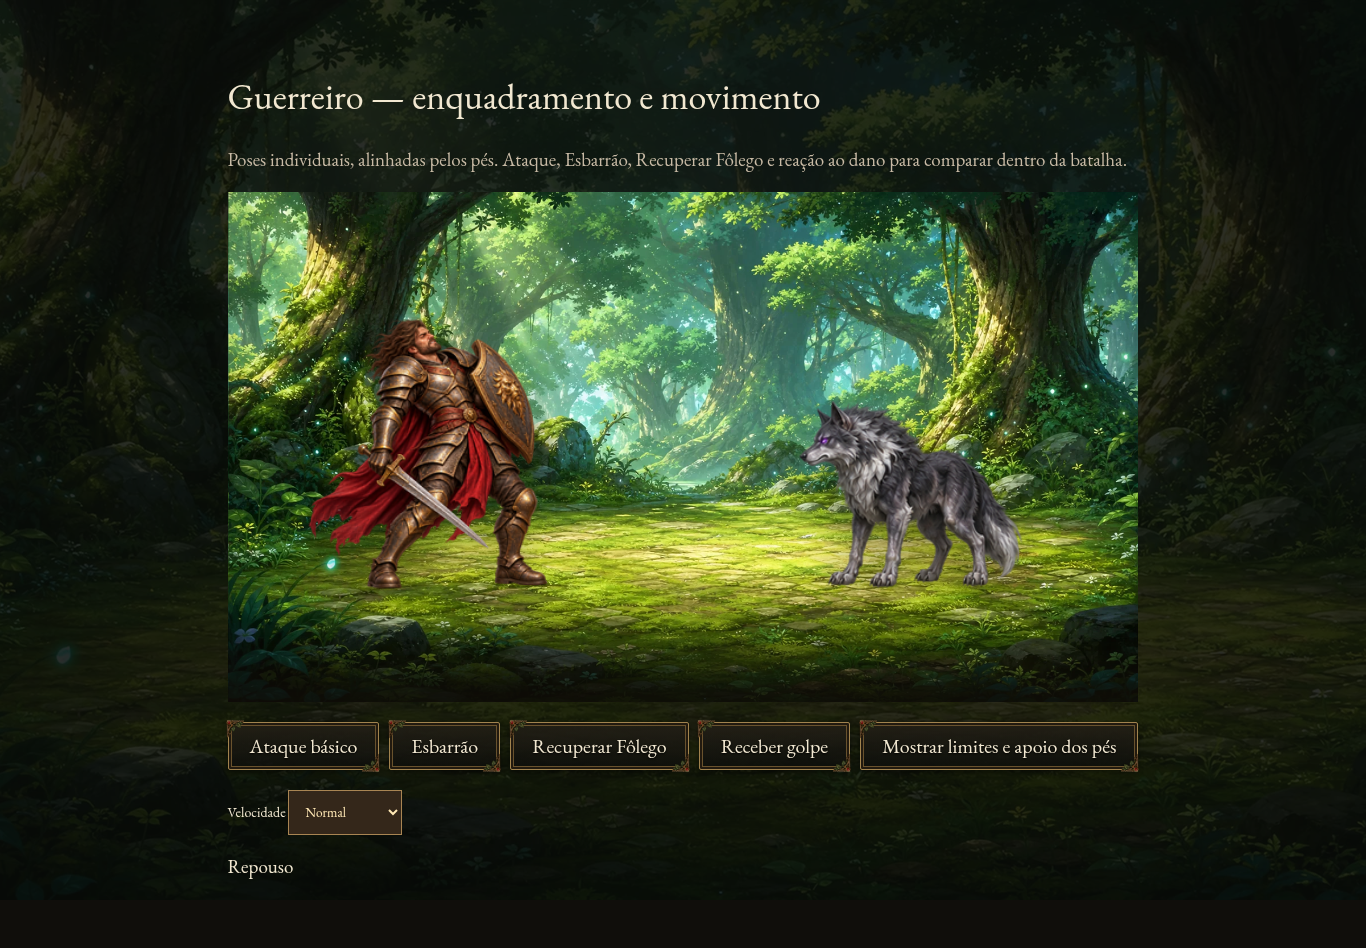
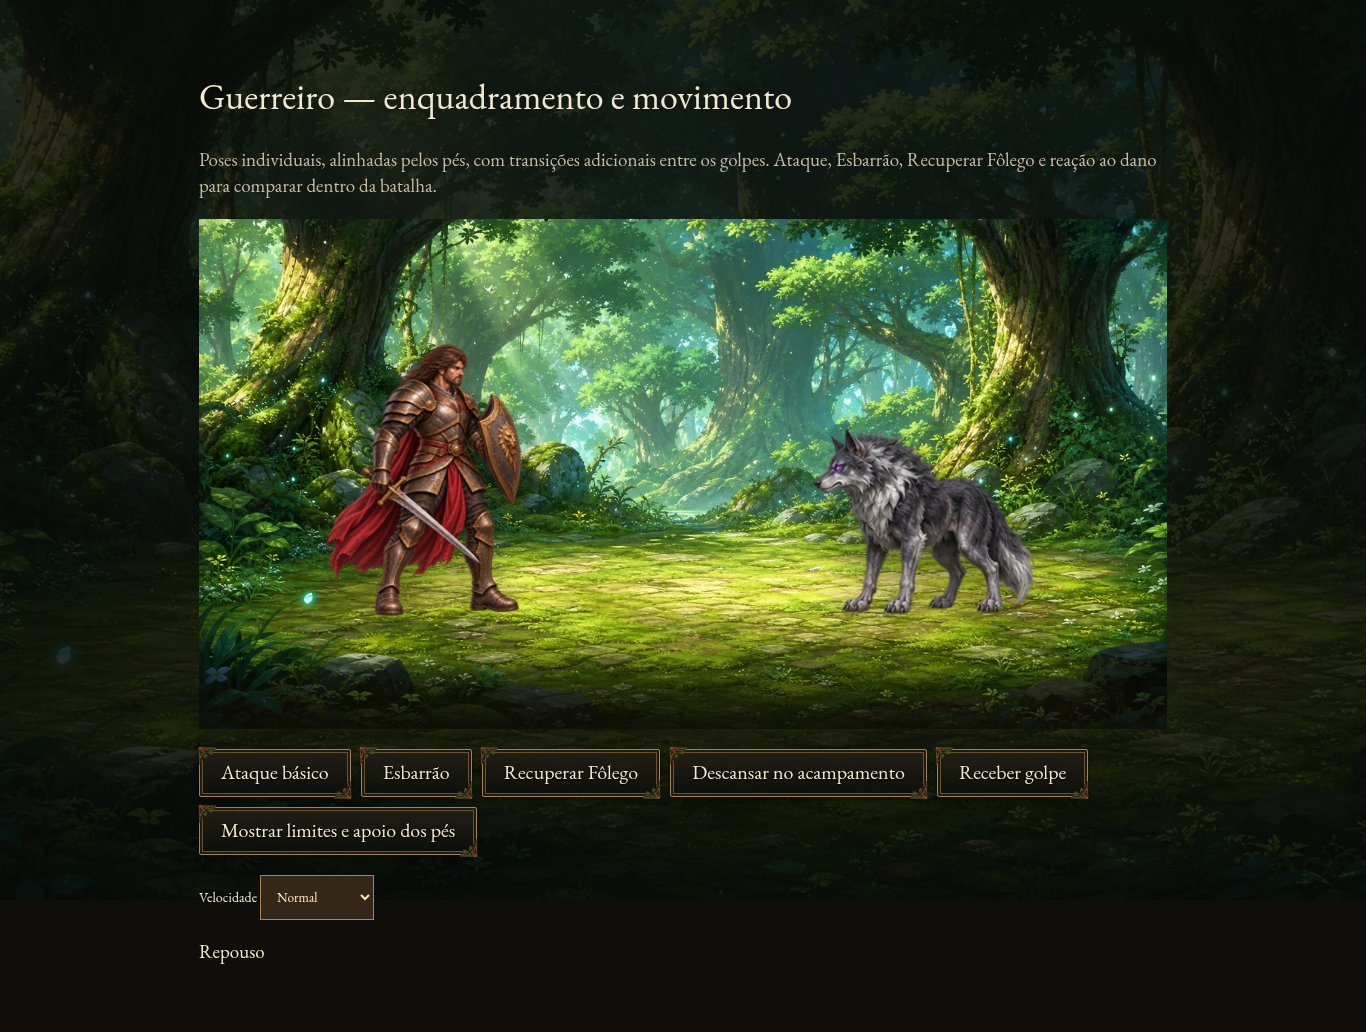
feat: add warrior camp rest pose and smoother combat transitions

diff --git a/docs/arte/guerreiro/index.html b/docs/arte/guerreiro/index.html
@@ -1,6 +1,6 @@
-<!doctype html><html lang="pt-BR"><head><meta charset="utf-8"><meta name="viewport" content="width=device-width,initial-scale=1"><base href="../../../"><title>Guerreiro — estudo de movimento</title><link rel="stylesheet" href="assets/styles/game.css"><link rel="stylesheet" href="assets/styles/campaign-hud.css"><link rel="stylesheet" href="assets/styles/campaign-theme.css"><link rel="stylesheet" href="assets/styles/character-motion.css"><style>body{background:#121014;color:#f1dfbb}main{max-width:1000px;margin:32px auto;padding:16px}h1{font-size:36px}.battle-scene{height:500px!important;background:url('assets/visual/backgrounds/regions/floresta.webp') center/cover}.controls{display:flex;gap:10px;flex-wrap:wrap;margin:20px 0}button,select{padding:12px;background:#34271a;color:#ffe8b5;border:1px solid #a98553}.debug .hero-v2{outline:1px solid #ffc75e}.debug .hero-v2:after{content:'';position:absolute;width:8px;height:8px;border:1px solid cyan;left:calc(50% - 4px);bottom:4px}.speed{font:14px system-ui}.note{color:#c8baa5}@media(max-width:760px){main{margin:10px auto}.battle-scene{height:360px!important}}</style></head><body class="rpg-campaign"><main><h1>Guerreiro — enquadramento e movimento</h1><p class="note">Poses individuais, alinhadas pelos pés. Ataque, Esbarrão, Recuperar Fôlego e reação ao dano para comparar dentro da batalha.</p><div class="rpg-battle"><div class="battle-scene"><div id="heroSpriteBox" class="combat-entity hero-entity"><div class="sprite-figure sheet-sprite hero-v2 warrior-single" data-warrior="true" role="img" aria-label="Guerreiro"></div></div><div id="enemySpriteBox" class="combat-entity enemy-entity"><div class="sprite-figure sheet-sprite" style="background-image:url('assets/visual/enemies-v3/lobo-sombrio.webp');background-size:400% 100%" role="img" aria-label="Lobo Sombrio"></div></div></div></div><div class="controls"><button data-action="basic">Ataque básico</button><button data-action="shove">Esbarrão</button><button data-action="support">Recuperar Fôlego</button><button data-action="hurt">Receber golpe</button><button id="bounds">Mostrar limites e apoio dos pés</button></div><label class="speed">Velocidade <select id="speed"><option value="1">Normal</option><option value="0.35">Câmera lenta</option></select></label><p id="status" role="status">Repouso</p></main><script>const player={class:'Guerreiro'};const slugify=s=>s.toLowerCase().replace(/\s+/g,'-');function pulseSpriteClass(){}</script><script src="assets/js/systems/character-motion.js"></script><script>
+<!doctype html><html lang="pt-BR"><head><meta charset="utf-8"><meta name="viewport" content="width=device-width,initial-scale=1"><base href="../../../"><title>Guerreiro — estudo de movimento</title><link rel="stylesheet" href="assets/styles/game.css"><link rel="stylesheet" href="assets/styles/campaign-hud.css"><link rel="stylesheet" href="assets/styles/campaign-theme.css"><link rel="stylesheet" href="assets/styles/character-motion.css"><style>body{background:#121014;color:#f1dfbb}main{max-width:1000px;margin:32px auto;padding:16px}h1{font-size:36px}.battle-scene{height:500px!important;background:url('assets/visual/backgrounds/regions/floresta.webp') center/cover}.controls{display:flex;gap:10px;flex-wrap:wrap;margin:20px 0}button,select{padding:12px;background:#34271a;color:#ffe8b5;border:1px solid #a98553}.debug .hero-v2{outline:1px solid #ffc75e}.debug .hero-v2:after{content:'';position:absolute;width:8px;height:8px;border:1px solid cyan;left:calc(50% - 4px);bottom:4px}.speed{font:14px system-ui}.note{color:#c8baa5}@media(max-width:760px){main{margin:10px auto}.battle-scene{height:360px!important}}</style></head><body class="rpg-campaign"><main><h1>Guerreiro — enquadramento e movimento</h1><p class="note">Poses individuais, alinhadas pelos pés, com transições adicionais entre os golpes. Ataque, Esbarrão, Recuperar Fôlego e reação ao dano para comparar dentro da batalha.</p><div class="rpg-battle"><div class="battle-scene"><div id="heroSpriteBox" class="combat-entity hero-entity"><div class="sprite-figure sheet-sprite hero-v2 warrior-single" data-warrior="true" role="img" aria-label="Guerreiro"></div></div><div id="enemySpriteBox" class="combat-entity enemy-entity"><div class="sprite-figure sheet-sprite" style="background-image:url('assets/visual/enemies-v3/lobo-sombrio.webp');background-size:400% 100%" role="img" aria-label="Lobo Sombrio"></div></div></div></div><div class="controls"><button data-action="basic">Ataque básico</button><button data-action="shove">Esbarrão</button><button data-action="support">Recuperar Fôlego</button><button data-action="camp">Descansar no acampamento</button><button data-action="hurt">Receber golpe</button><button id="bounds">Mostrar limites e apoio dos pés</button></div><label class="speed">Velocidade <select id="speed"><option value="1">Normal</option><option value="0.35">Câmera lenta</option></select></label><p id="status" role="status">Repouso</p></main><script>const player={class:'Guerreiro'};const slugify=s=>s.toLowerCase().replace(/\s+/g,'-');function pulseSpriteClass(){}</script><script src="assets/js/systems/character-motion.js"></script><script>
 const hero=document.querySelector('.hero-v2');hero.style.setProperty('--sprite-url',`url('${new URL(CharacterMotion.heroPath('guerreiro'),document.baseURI).href}')`);
 window.addEventListener('rpg-motion',e=>document.getElementById('status').textContent=e.detail.phase==='impact'?'Impacto':e.detail.phase==='end'?'Repouso':e.detail.phase);
-async function play(id){document.querySelectorAll('button').forEach(b=>b.disabled=true);try{if(id==='hurt')await CharacterMotion.hurt();else await CharacterMotion.action({style:id==='support'?'buff':'attack',skill:id==='shove'?{type:'warrior_shove',id:'esbarrao'}:id==='support'?{type:'warrior_second_wind',id:'recuperar_folego'}:null,connectHit:true});}finally{document.querySelectorAll('button').forEach(b=>b.disabled=false);}}
+async function play(id){document.querySelectorAll('button').forEach(b=>b.disabled=true);try{if(id==='camp'){hero.style.backgroundImage=`url('${new URL(CharacterMotion.heroPath('guerreiro-camp'),document.baseURI).href}')`;hero.dataset.pose='camp';document.getElementById('status').textContent='Descansando';}else if(id==='hurt')await CharacterMotion.hurt();else await CharacterMotion.action({style:id==='support'?'buff':'attack',skill:id==='shove'?{type:'warrior_shove',id:'esbarrao'}:id==='support'?{type:'warrior_second_wind',id:'recuperar_folego'}:null,connectHit:true});}finally{document.querySelectorAll('button').forEach(b=>b.disabled=false);}}
 document.querySelectorAll('[data-action]').forEach(b=>b.onclick=()=>play(b.dataset.action));document.getElementById('bounds').onclick=()=>document.body.classList.toggle('debug');document.getElementById('speed').onchange=e=>{document.timeline.getAnimations().forEach(a=>a.playbackRate=Number(e.target.value));window.warriorPreviewSpeed=Number(e.target.value);};
 </script></body></html>

diff --git a/assets/js/systems/character-motion.js b/assets/js/systems/character-motion.js
@@ -10,12 +10,12 @@ const CharacterMotion=(()=>{
   if(key==='avatar-da-natureza'&&playerEffects.natureTrueFormTurns>0)return 'avatar-da-natureza-verdadeira';
   return key;
  }
- const heroPath=key=>key==='guerreiro'?posePath('idle'):`assets/visual/${forms.has(key)?'hero-forms':'heroes-v2'}/${key}.webp?v=20261104-forms`;
- const posePath=name=>`assets/visual/warrior-poses/${name}.webp?v=20261109-pilot`;
+ const heroPath=key=>key==='guerreiro-camp'?posePath('camp'):key==='guerreiro'?posePath('idle'):`assets/visual/${forms.has(key)?'hero-forms':'heroes-v2'}/${key}.webp?v=20261104-forms`;
+ const posePath=name=>`assets/visual/warrior-poses/${name}.webp?v=20261109-fluid-r2`;
  const warrior=el=>el?.dataset.warrior==='true'||(typeof getHeroCombatAssetKey==='function'&&getHeroCombatAssetKey()==='guerreiro');
  function setPose(el,name){if(!name)throw new Error('Missing warrior pose '+el.dataset.motion+' '+el.dataset.frame);el.classList.add('warrior-single');el.dataset.pose=name;el.style.backgroundImage=`url('${new URL(posePath(name),document.baseURI).href}')`;}
  function resetPose(el){if(warrior(el))setPose(el,'idle');el.dataset.motion='idle';el.dataset.frame='0';el.style.removeProperty('background-position');}
- function readyPoses(){if(!loaded.has('warrior-poses'))loaded.set('warrior-poses',Promise.all(['idle','windup','strike','recover','shove','support','hurt'].map(name=>{const im=new Image();im.src=posePath(name);return im.decode().catch(()=>false);})));return loaded.get('warrior-poses');}
+ function readyPoses(){if(!loaded.has('warrior-poses'))loaded.set('warrior-poses',Promise.all(['idle','windup','strike','recover','shove','support','hurt','ready','swing','follow','settle','shove-ready','shove-return','hurt-mid','camp'].map(name=>{const im=new Image();im.src=posePath(name);return im.decode().catch(()=>false);})));return loaded.get('warrior-poses');}
  function syncForm(){
   const el=document.querySelector('#heroSpriteBox .hero-v2');
   if(el&&warrior(el))setPose(el,'idle');
@@ -34,7 +34,7 @@ const CharacterMotion=(()=>{
   if(reduced()){resetPose(el);return pause(100);}
   return new Promise(resolve=>{const start=performance.now();const token={raf:0,finish};running.set(el,token);el.dataset.motion=row===3?'hurt':row===2?'cast':'attack';
    function finish(restore=true){if(running.get(el)===token){running.delete(el);if(restore)resetPose(el);}resolve();}
-   function step(now){if(!el.isConnected||running.get(el)!==token){finish();return;}const t=Math.max(0,Math.min(1,(now-start)/duration));const col=sequence[Math.min(sequence.length-1,Math.floor(t*sequence.length))];if(warrior(el)){const names=poseNames||(row===3?['hurt','hurt','recover','idle']:row===2?['support','support','recover','idle']:['windup','strike','recover','idle']);setPose(el,names[col]);}else el.style.backgroundPosition=`${col*100/3}% ${row*100/3}%`;el.dataset.frame=String(row*4+col);if(t>=1){finish();return;}token.raf=requestAnimationFrame(step);}
+   function step(now){if(!el.isConnected||running.get(el)!==token){finish();return;}const t=Math.max(0,Math.min(1,(now-start)/duration));const col=sequence[Math.min(sequence.length-1,Math.floor(t*sequence.length))];if(warrior(el)){const names=poseNames||(row===3?['hurt-mid','hurt','hurt','hurt-mid','settle','idle']:row===2?['idle','support','support','support','settle','idle']:['idle','ready','ready','windup','windup','swing','swing','strike','strike','follow','follow','recover','recover','settle','settle','idle']);setPose(el,names[Math.min(names.length-1,Math.floor(t*names.length))]);}else el.style.backgroundPosition=`${col*100/3}% ${row*100/3}%`;el.dataset.frame=String(row*4+col);if(t>=1){finish();return;}token.raf=requestAnimationFrame(step);}
    token.raf=requestAnimationFrame(step);
   });
  }
@@ -55,7 +55,7 @@ const CharacterMotion=(()=>{
   let sequence=warrior(el)?[0,0,0,0,1,1,2,2,2,2]:[0,1,2,3];if(p.pose==='attack'&&p.hits>1)sequence=[0,...Array.from({length:p.hits},()=>[1,2]).flat(),3];
   else if(repeats>1&&!reduced())sequence=[0,1,...Array.from({length:Math.max(2,Math.ceil(p.duration/225)-3)},()=>2),3];
   const bodyMotion=warrior(el)&&!reduced()?el.animate([{translate:'0px 0px',offset:0},{translate:p.target==='hero'?'0px 0px':'-3px 0px',offset:.35},{translate:p.target==='hero'?'0px 0px':'8px 0px',offset:.5},{translate:'0px 0px',offset:1}],{duration:p.duration,easing:'ease-in-out'}):null;
-  try{await Promise.all([frames(el,p.pose==='cast'?2:1,p.duration,sequence,skill?.type==='warrior_shove'?['idle','shove','recover','idle']:null),effect(p),(async()=>{let marks;if(p.pose==='attack'&&p.hits>1)marks=sequence.flatMap((frame,i)=>frame===2?[p.duration*i/sequence.length]:[]);else marks=Array.from({length:Math.max(1,hitRepeats)},(_,i)=>(reduced()?30:hitDelay??Math.round(p.duration*.5))+i*(betweenHits??120));let elapsed=0;for(let i=0;i<marks.length;i++){await pause(Math.max(0,marks[i]-elapsed));elapsed=marks[i];emit('impact',{...p,hit:i});if(connectHit){if(typeof ZenithMotion!=='undefined')ZenithMotion.hurt();if(typeof EnemyMotion!=='undefined')EnemyMotion.hurt();pulseSpriteClass('enemySpriteBox','hit',reduced()?100:500);}}})()]);}finally{bodyMotion?.cancel();box.classList.remove(cls);delete box.dataset.ability;emit('end',p);}
+  try{await Promise.all([frames(el,p.pose==='cast'?2:1,p.duration,sequence,skill?.type==='warrior_shove'?['idle','shove-ready','shove-ready','shove-ready','shove-ready','shove-ready','shove-ready','shove','shove','shove-return','shove-return','recover','recover','settle','settle','idle']:null),effect(p),(async()=>{let marks;if(p.pose==='attack'&&p.hits>1)marks=sequence.flatMap((frame,i)=>frame===2?[p.duration*i/sequence.length]:[]);else marks=Array.from({length:Math.max(1,hitRepeats)},(_,i)=>(reduced()?30:hitDelay??Math.round(p.duration*.5))+i*(betweenHits??120));let elapsed=0;for(let i=0;i<marks.length;i++){await pause(Math.max(0,marks[i]-elapsed));elapsed=marks[i];emit('impact',{...p,hit:i});if(connectHit){if(typeof ZenithMotion!=='undefined')ZenithMotion.hurt();if(typeof EnemyMotion!=='undefined')EnemyMotion.hurt();pulseSpriteClass('enemySpriteBox','hit',reduced()?100:500);}}})()]);}finally{bodyMotion?.cancel();box.classList.remove(cls);delete box.dataset.ability;emit('end',p);}
  }
  return {profile,action,hurt,prepare,formKey,syncForm,ready:(skill,style)=>preload(profile(skill,style).key),portraitTop:key=>key==='guerreiro'?-90:typeof HERO_ART_LAYOUT!=='undefined'?HERO_ART_LAYOUT[key]?.portraitTop??-24:-24,impactDelay:(skill,style)=>{const p=profile(skill,style);return p.duration*(p.pose==='attack'&&p.hits>1?1/(p.hits+1):.5);},history:()=>events.slice(),heroPath};
 })();

diff --git a/index.html b/index.html
@@ -11,7 +11,7 @@
 <link rel="stylesheet" href="assets/styles/campaign-hud.css?v=20261106-w14-dungeon" />
 <link rel="stylesheet" href="assets/styles/campaign-typography.css?v=20261029-centered" />
 <link rel="stylesheet" href="assets/styles/campaign-reading.css?v=20261029-arsenal" />
-<link rel="stylesheet" href="assets/styles/character-motion.css?v=20261109-warrior" />
+<link rel="stylesheet" href="assets/styles/character-motion.css?v=20261109-fluid-r2" />
 <link rel="stylesheet" href="assets/styles/zenith-motion.css?v=20261104-zenith-pilot" />
 <link rel="stylesheet" href="assets/styles/enemy-motion.css?v=20261104-ui-refine" />
 <link rel="stylesheet" href="assets/styles/rpg-interface.css?v=20261106-presentation-v6">
@@ -67,11 +67,11 @@
 <script src="assets/js/data/enemy-art.js?v=20261104-phased-art"></script>
 <script src="assets/js/systems/enemy-motion.js?v=20261104-phased-art"></script>
 <script src="assets/js/systems/zenith-motion.js?v=20261104-zenith-pilot"></script>
-<script src="assets/js/systems/character-motion.js?v=20261109-warrior"></script>
+<script src="assets/js/systems/character-motion.js?v=20261109-fluid-r2"></script>
 <script src="assets/js/systems/combat-status.js?v=20261106-turns-v5"></script>
 <script src="assets/js/systems/campaign-enemy-combat.js?v=20261106-formation-v9"></script>
 <script src="assets/js/data/combat-art-fit.js?v=20261106-w14-dungeon"></script>
-<script src="assets/js/game.js?v=20261106-turns-v5"></script>
+<script src="assets/js/game.js?v=20261109-camp-warrior"></script>
 <script src="assets/js/systems/campaign-reference.js?v=20261106-w14-dungeon"></script>
 <script src="assets/js/systems/campaign-hud.js?v=20261106-turns-v5"></script>
 <script src="assets/js/systems/campaign-details.js?v=20261106-w14-dungeon"></script>

diff --git a/assets/js/game.js b/assets/js/game.js
@@ -786,7 +786,9 @@ function renderSpriteSheetFigure(id, kind, assetKey, fallbackMarkup, label, extr
 
 function getHeroSpriteMarkup(targetPlayer = player){
   const heroClass = getHeroSpriteClass(targetPlayer);
-  return renderSpriteSheetFigure("heroSprite", "heroes", getHeroCombatAssetKey(targetPlayer), getHeroSpriteIcon(targetPlayer), getDisplayedClassName(targetPlayer), heroClass);
+  const key = getHeroCombatAssetKey(targetPlayer);
+  const restingWarrior = key === "guerreiro" && targetPlayer === player && currentMode === "camp" && isCampResting();
+  return renderSpriteSheetFigure("heroSprite", "heroes", restingWarrior ? "guerreiro-camp" : key, getHeroSpriteIcon(targetPlayer), getDisplayedClassName(targetPlayer), heroClass);
 }
 function renderCombatAvatar(kind, assetKey, fallbackMarkup, altText){
   const source = getVisualSpritePath(kind, assetKey);

diff --git a/assets/styles/character-motion.css b/assets/styles/character-motion.css
@@ -19,3 +19,6 @@
 @keyframes warriorBreathe{0%,100%{scale:1 1}50%{scale:1 1.006}}
 .rpg-campaign #heroSpriteBox .warrior-single[data-motion=idle]{animation:warriorBreathe 3s ease-in-out infinite!important}
 @media(prefers-reduced-motion:reduce){.rpg-campaign #heroSpriteBox .warrior-single{animation:none!important}}
+/* Breathing while actually resting; standing in camp keeps the regular image. */
+.rpg-campaign :is(.camp-scene,.rpg-character-figure) .hero-v2[style*="/camp.webp"]{animation:warriorBreathe 3.5s ease-in-out infinite!important}
+@media(prefers-reduced-motion:reduce){.rpg-campaign :is(.camp-scene,.rpg-character-figure) .hero-v2[style*="/camp.webp"]{animation:none!important}}

diff --git a/scripts/pack-warrior-poses.py b/scripts/pack-warrior-poses.py
@@ -9,7 +9,7 @@ report={}
 for name,registration in meta.items():
  im=Image.open(src/(name+'.png')).convert('RGBA')
  head,ground=registration['head'],registration['ground']
- scale=230/(ground-head)
+ scale=registration.get('bodyHeight',230)/(ground-head)
  pivot=registration['pivot']
  out=Image.new('RGBA',(384,384))
  box=im.getchannel('A').point(lambda a:255 if a>24 else 0).getbbox()

diff --git a/docs/arte/guerreiro/README.md b/docs/arte/guerreiro/README.md
@@ -2,7 +2,7 @@
 
 [Prévia interativa](index.html)
 
-O piloto do Guerreiro base usa sete imagens individuais: repouso, preparação, contato, recuperação, Esbarrão, Recuperar Fôlego e reação ao dano. Espada, escudo e capa ficam dentro de cada imagem; não há células vizinhas para invadir o recorte.
+O piloto do Guerreiro base usa 15 imagens individuais, incluindo poses intermediárias e descanso no acampamento. As poses originais incluem: repouso, preparação, contato, recuperação, Esbarrão, Recuperar Fôlego e reação ao dano. Espada, escudo e capa ficam dentro de cada imagem; não há células vizinhas para invadir o recorte.
 
 As poses são registradas em uma tela transparente de 384 × 384, com referência de apoio em (192, 376) e escala corporal consistente. O espaço superior e lateral reserva a extensão dos movimentos. O posicionamento no celular considera a ponta da arma e o escudo.
 
@@ -20,3 +20,9 @@ A prévia oferece câmera lenta e contorno da imagem com marcador de apoio. Esta
 - `node scripts/test-warrior-balance.cjs`: regressão das regras de combate.
 
 Para abrir a prévia, sirva a raiz do repositório com `python3 -m http.server 8000` e acesse `/docs/arte/guerreiro/index.html`.
+
+## Ampliação de fluidez e descanso
+
+O ataque de espada agora percorre oito poses diferentes; o Esbarrão percorre seis. Foram acrescentadas preparação, passagem da espada, continuidade do corte, retorno à guarda, preparação e retorno do escudo e reação intermediária ao dano. O instante do contato permanece sincronizado com o impacto.
+
+A imagem sentada aparece quando o descanso está ativo no acampamento e desaparece ao levantar. O estado é mantido pelos salvamentos existentes. A pose pode ser vista também pelo botão de descanso da prévia.
